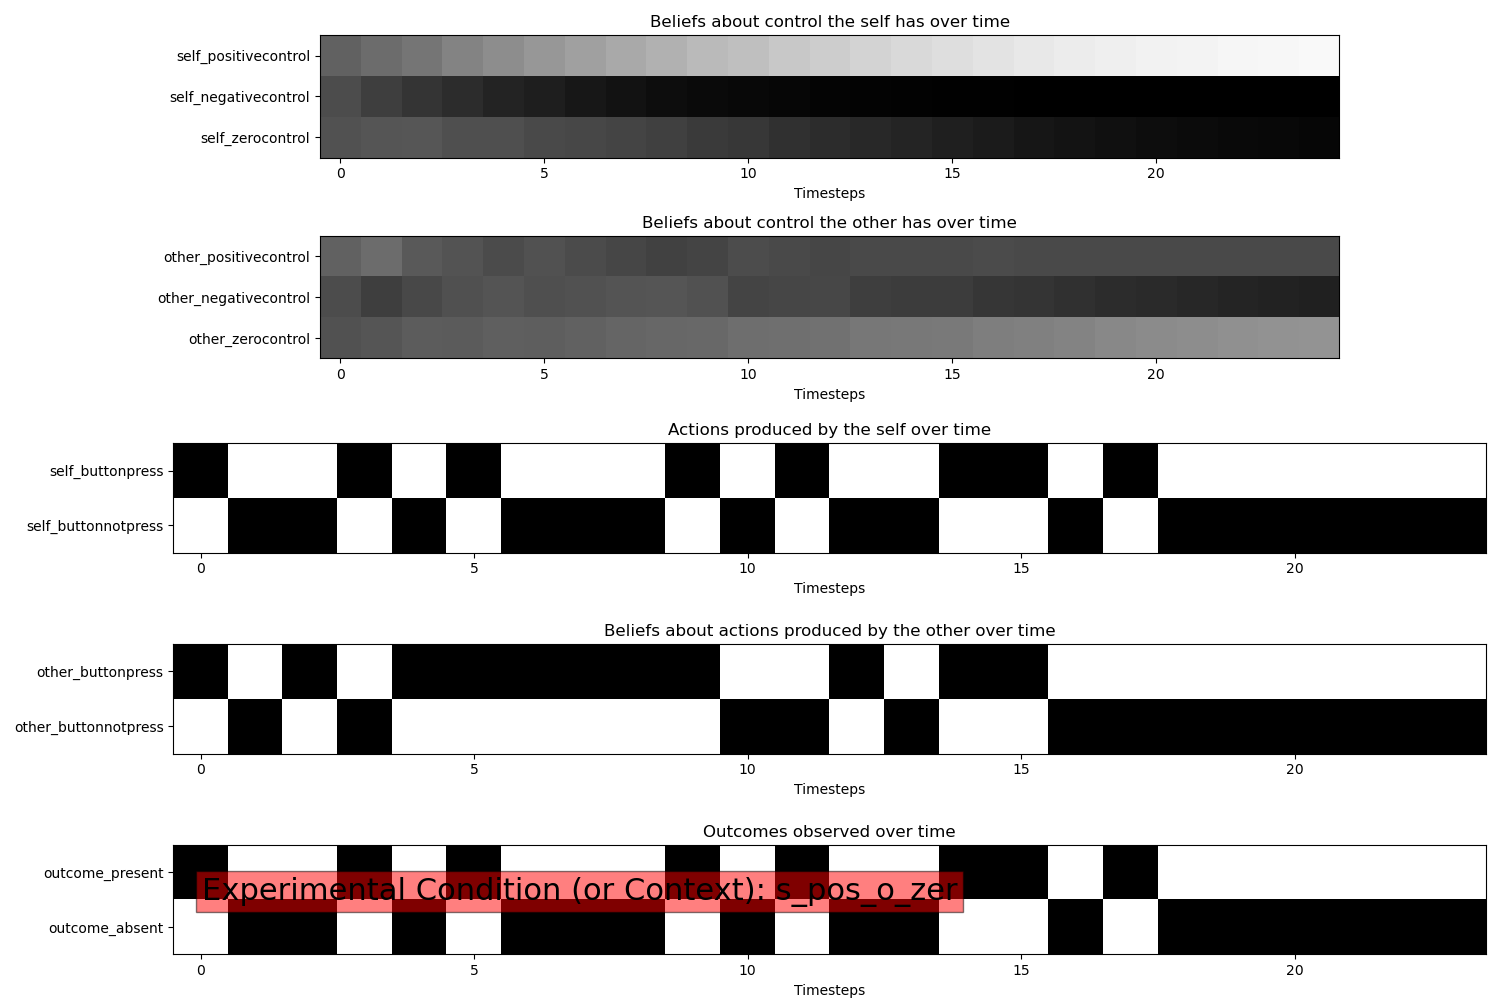
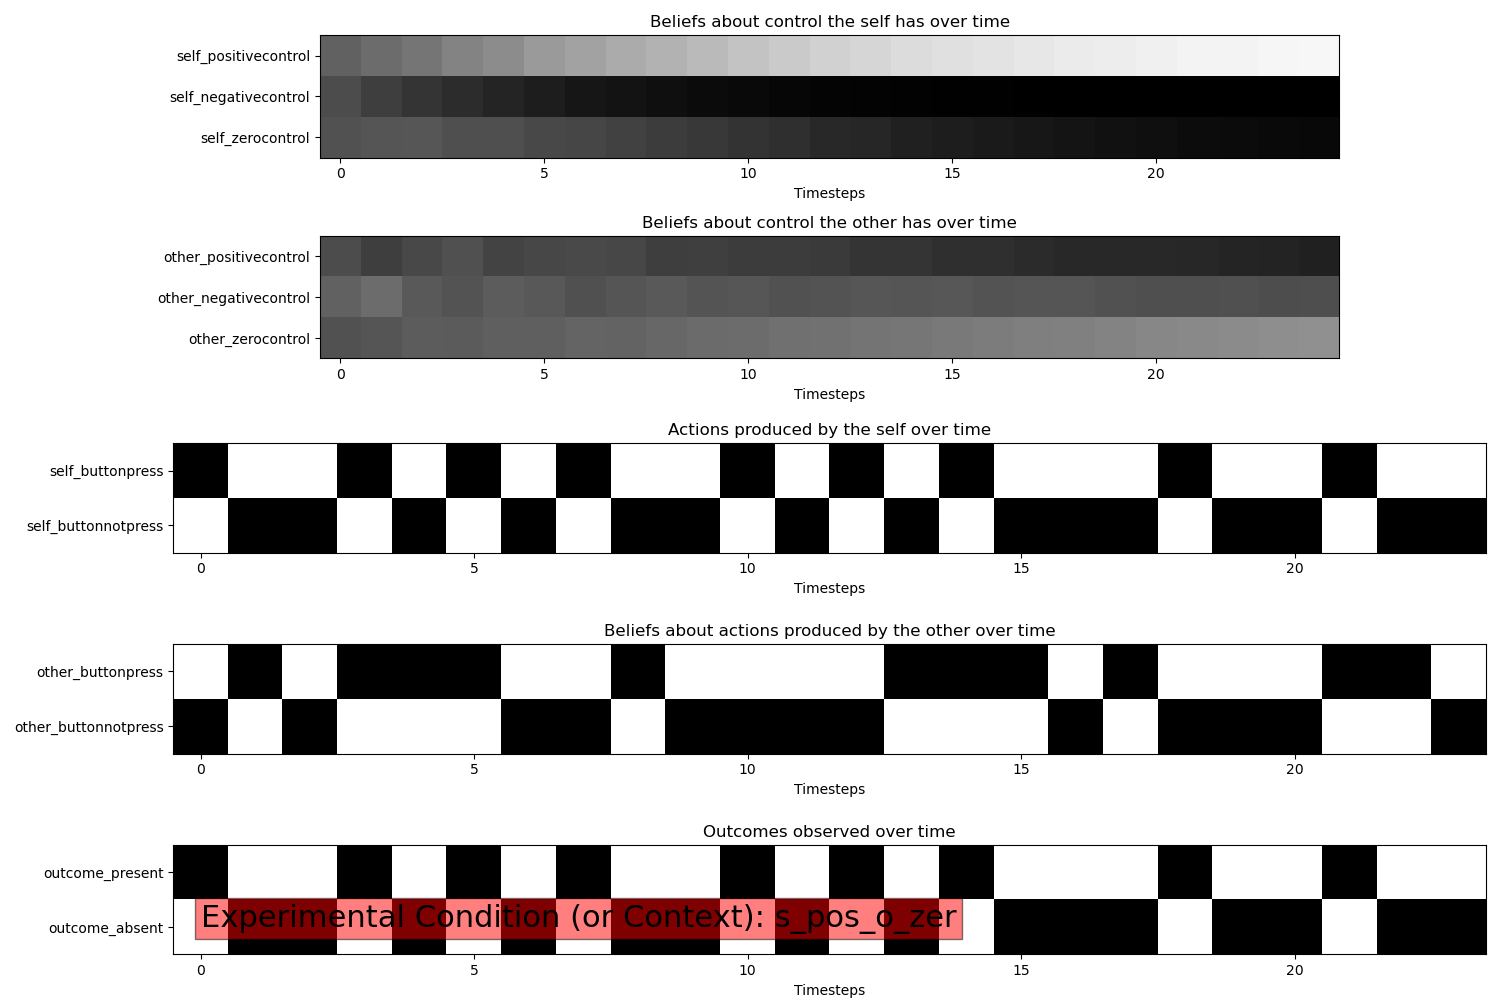
Experiment 2024-02-23-22-34-54

diff --git a/agency_twoagents.py b/agency_twoagents.py
@@ -501,7 +501,7 @@ def plot_all_choices_beliefs(log, env, savefig = 1):
     fig, axes = plt.subplots(nrows = 5, ncols = 1, figsize = (15,10))
     
     exp_cond_text = f'Experimental Condition (or Context): {env.expcondition}'
-    plt.text(0.0, 1.0, exp_cond_text, 
+    plt.text(0.0, 3.0, exp_cond_text, 
              fontsize = 22, bbox = dict(facecolor = 'red', alpha = 0.5))
 
     axes[0].imshow(log['belief_self_context_hist'], cmap = 'gray', vmin=0, vmax=1)
